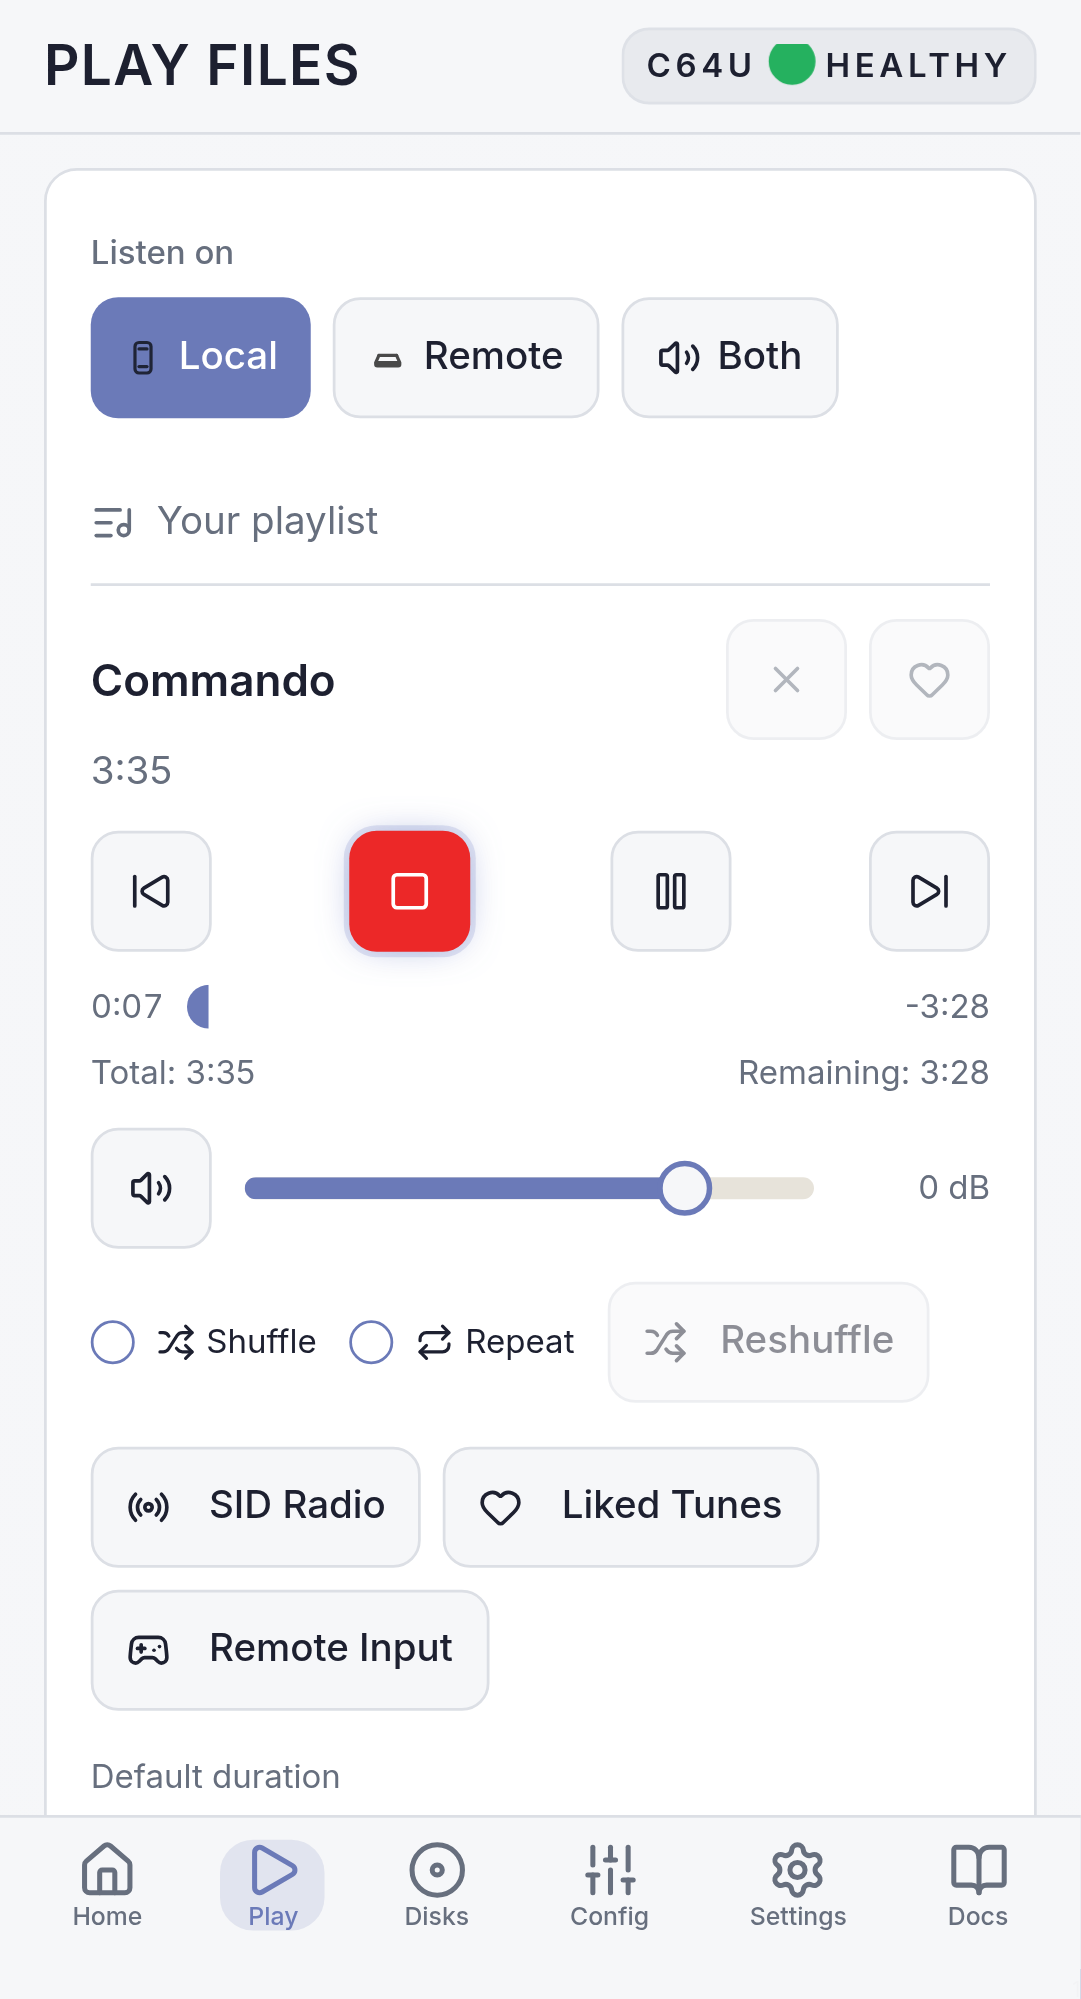
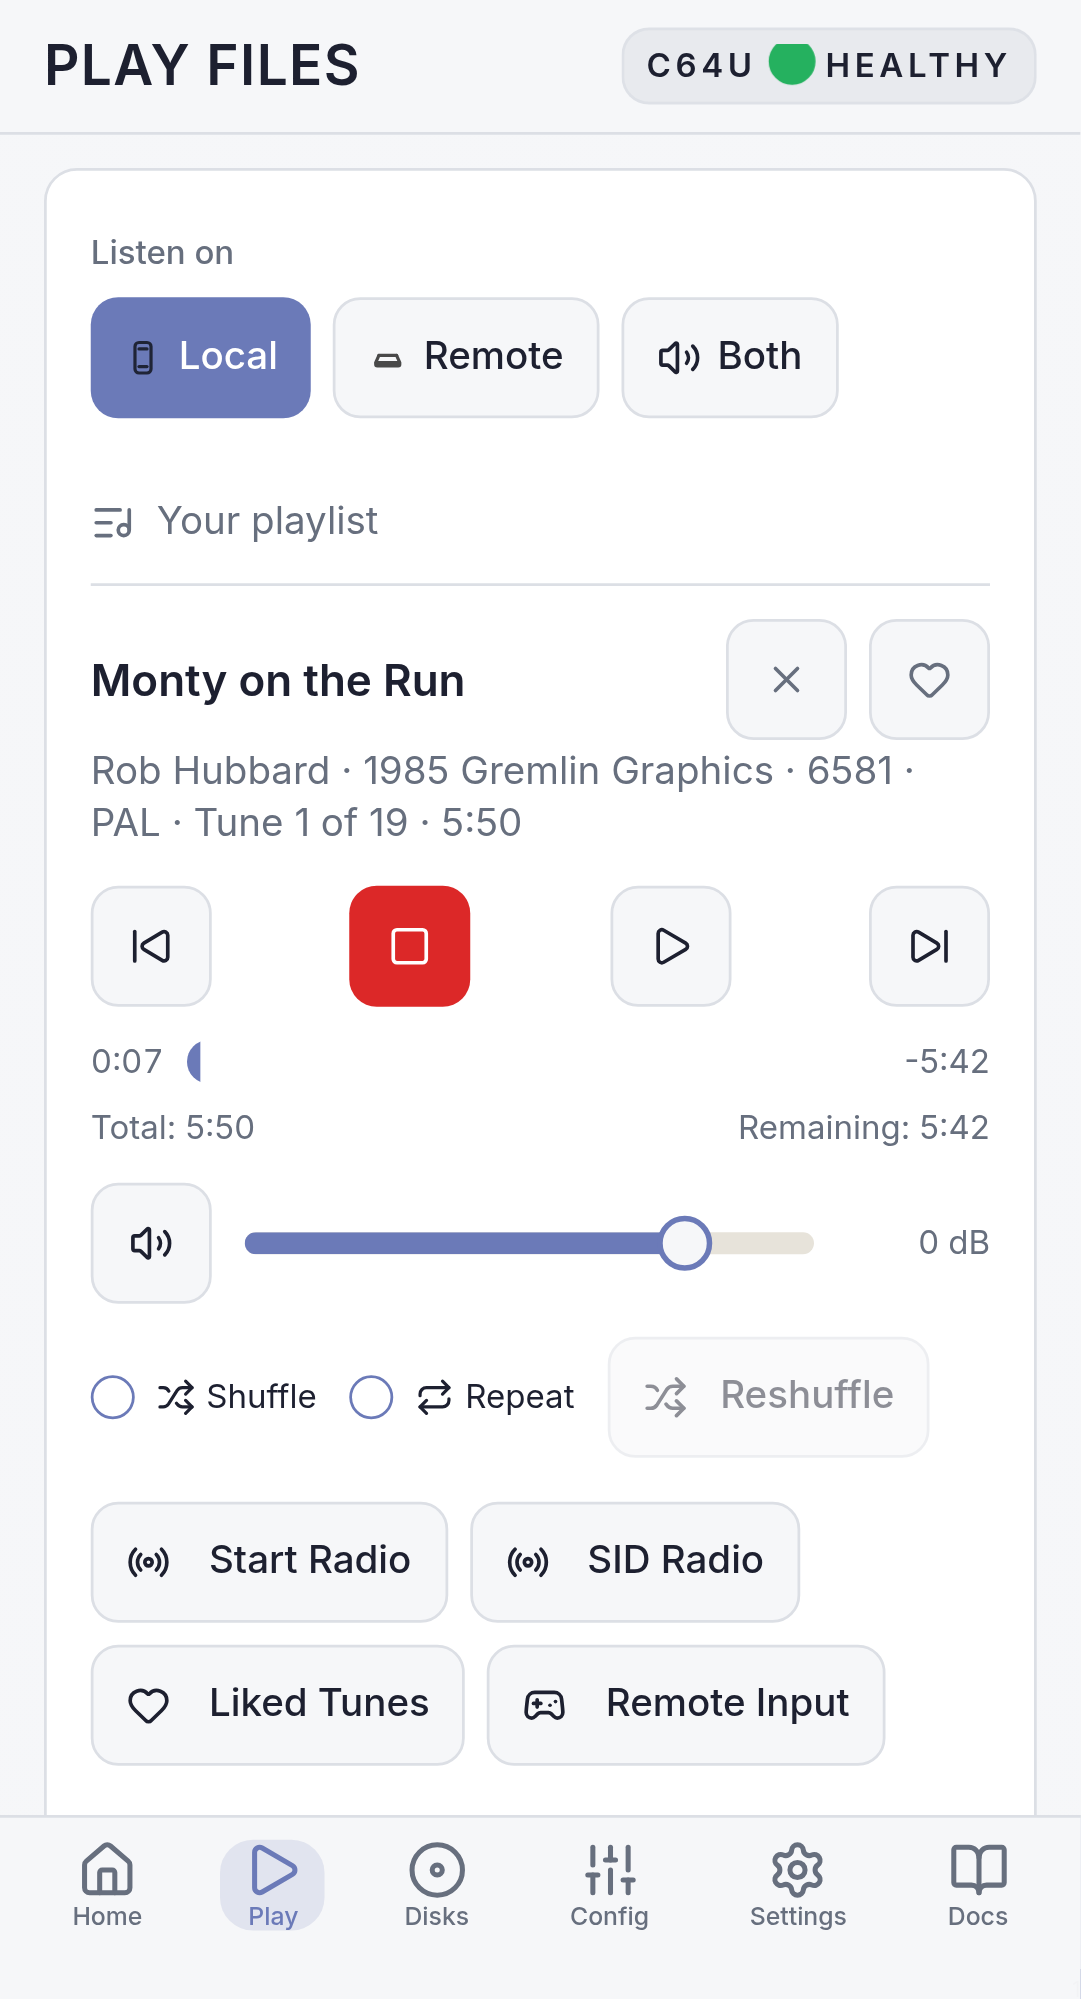
docs(sid-radio): show a real tune, with its composer, on the Now Playing card
The card showed a nameless tune: no composer, no year, no publisher, no chip,
no television standard. Those all come from the SID file's own header, and the
screenshot had no header worth reading.

Two things were wrong. The fixture builder declared a version 2 header but wrote
the version 1 data offset, producing a 119-byte file;
`parseSidHeaderMetadata` rejects anything under 124 bytes, so the credits stayed
empty. This was easy to miss because `computeSidMd5` is happy with any bytes, so
the ranking controls appeared while the composer never did. The metadata fixture
now emits a complete 124-byte version 2 header; the cut-down one is untouched for
the tests that only need *a* SID.

Second, `getHvscSong` in the UI mock matched a single hardcoded entry, so no test
could ask for a tune with real credits. It now searches the whole fixture list.
The primary song is unchanged, so existing tests see what they saw before.

The tune is Rob Hubbard's "Monty on the Run" — he started all this, and it is one
of his cheerful ones. Every value is taken from the real HVSC entry: 19 tunes,
PAL, a 6581 chip, and 5:50 for the first tune from `Songlengths.md5`. The flags
word the fixture carries is 0x14, byte for byte what the real file carries. The
bytes themselves are synthetic — no music is copied, only the facts a tune states
about itself. The card now reads:

  Monty on the Run
  Rob Hubbard · 1985 Gremlin Graphics · 6581 · PAL · Tune 1 of 19 · 5:50
[…]

diff --git a/playwright/screenshots.spec.ts b/playwright/screenshots.spec.ts
@@ -973,24 +973,28 @@ const FEATURED_SID = {
   playlistKey: SHARED_PLAYLIST_STORAGE_KEY,
   sessionKey: PLAYBACK_SESSION_KEY,
   deviceId: "TEST-123",
-  path: "/MUSICIANS/H/Hubbard_Rob/Commando.sid",
-  name: "Commando.sid",
-  title: "Commando",
-  durationMs: 215000,
-  elapsedMs: 7000,
+  // Rob Hubbard's "Monty on the Run", 1985 — one of the tunes that made the SID
+  // famous, and a cheerful one. Every value here is taken from the real HVSC
+  // entry: 19 tunes, PAL, a 6581 chip, and 5:50 for the first tune. The bytes the
+  // mock serves are synthetic, but the header they carry states exactly what the
+  // real file states, so the credits under the title are genuine rather than
+  // invented. Without a header to read, the card showed a nameless tune.
+  path: "/MUSICIANS/H/Hubbard_Rob/Monty_on_the_Run.sid",
+  name: "Monty_on_the_Run.sid",
+  title: "Monty on the Run",
+  durationMs: 350000,
+  songCount: 19,
   /**
-   * The wall-clock instant the capture runs at.
+   * Seven seconds in, just past a whole second.
    *
-   * The transport's elapsed time is derived from `Date.now()`, so with a live
-   * clock this screenshot read 0:07 on one run and 0:08 on the next. The noise
-   * budget that suppresses re-writes is 8 pixels, and a changed digit plus the
-   * moved progress bar is far more than that, so the file churned on every
-   * regeneration. Pinning `Date.now()` for the page makes the elapsed exactly
-   * `elapsedMs` and keeps it there. The same instant is used for the session's
-   * `updatedAt`, so the restore sees an age of zero and is not downgraded to
-   * paused as a stale session would be.
+   * The elapsed time, the remaining time and the progress bar are all derived
+   * from `Date.now()`, so with a live clock this file was rewritten on every
+   * regeneration — well past the 8-pixel noise budget that suppresses re-writes.
+   * The page clock is pinned for the capture, and that happens after the app has
+   * connected because the connection and health logic compares timestamps and
+   * never settles against a frozen clock.
    */
-  nowIso: "2026-01-01T12:00:00.000Z",
+  elapsedMs: 7050,
 } as const;
 
 const captureScreenshot = async (
@@ -2476,7 +2480,18 @@ test.describe("App screenshots", () => {
         // prose describes — no title, no elapsed time, no progress.
         const playlistKey = seed.playlistKey;
         const payload = {
-          items: [{ source: "hvsc", path: seed.path, name: seed.name, durationMs: seed.durationMs }],
+          items: [
+            {
+              source: "hvsc",
+              path: seed.path,
+              name: seed.name,
+              durationMs: seed.durationMs,
+              // The header declares 19 tunes; carrying the count here is what makes
+              // the card say "Tune 1 of 19" rather than leaving that field out.
+              subsongCount: seed.songCount,
+              songNr: 1,
+            },
+          ],
           currentIndex: 0,
         };
         localStorage.setItem(playlistKey, JSON.stringify(payload));
@@ -2565,6 +2580,15 @@ test.describe("App screenshots", () => {
       // Wait for the seeded tune to be the current track, so the shutter cannot
       // catch the transport before the session restore has landed.
       await expect(getActiveMain(page).getByTestId("playback-current-title")).toContainText(FEATURED_SID.title);
+
+      // The credits under the title — composer, year, publisher, chip, television
+      // standard — are parsed from the tune's own header, so wait for them rather
+      // than photographing a card that is still only showing a length.
+      await expect(getActiveMain(page).getByTestId("playback-current-credits")).toContainText("Rob Hubbard");
+
+      // Stop the clock now that the tune is up, so the elapsed time, the remaining
+      // time and the progress bar cannot move between here and the shutter. See
+      // FEATURED_SID for why this happens after connecting rather than before.
       await page.clock.setFixedTime(Date.now());
       await page.evaluate(() => window.scrollTo(0, 0));
       await captureScreenshot(page, testInfo, "play/sid-radio/01-controls.png");

diff --git a/playwright/sidFixture.ts b/playwright/sidFixture.ts
@@ -1,5 +1,35 @@
 const MINIMAL_SID_BYTE_LENGTH = 0x77;
 
+/** Where each text field sits in a PSID header, and how long it may be. */
+const NAME_OFFSET = 0x16;
+const AUTHOR_OFFSET = 0x36;
+const RELEASED_OFFSET = 0x56;
+const TEXT_FIELD_LENGTH = 0x20;
+const FLAGS_OFFSET = 0x76;
+
+/** What a tune says about itself, as the app reads it back out of the header. */
+export type SidFixtureMetadata = {
+  /** Title, composer and "year publisher", exactly as the header carries them. */
+  name: string;
+  author: string;
+  released: string;
+  songCount: number;
+  startSong: number;
+  /** `pal` and `ntsc` are the two television standards the C64 was sold for. */
+  clock: "pal" | "ntsc";
+  /** The two revisions of the SID chip. */
+  sidModel: "6581" | "8580";
+};
+
+const writeLatin1 = (bytes: Uint8Array, offset: number, value: string) => {
+  // PSID text fields are fixed-width and NUL-padded, so anything longer is cut
+  // rather than allowed to run into the next field.
+  const truncated = value.slice(0, TEXT_FIELD_LENGTH - 1);
+  for (let i = 0; i < truncated.length; i += 1) {
+    bytes[offset + i] = truncated.charCodeAt(i) & 0xff;
+  }
+};
+
 const createMinimalSidBytes = (songCount = 1) => {
   const bytes = new Uint8Array(MINIMAL_SID_BYTE_LENGTH);
   bytes.set([0x50, 0x53, 0x49, 0x44], 0);
@@ -13,6 +43,46 @@ const createMinimalSidBytes = (songCount = 1) => {
   bytes[16] = 0x00;
   bytes[17] = 0x01;
   bytes[0x76] = 0x60;
+  return bytes;
+};
+
+/**
+ * A complete version 2 header, which is what the app's parser insists on.
+ *
+ * `parseSidHeaderMetadata` rejects anything under 124 bytes and reads the flags
+ * word at offset 118, so the cut-down 119-byte fixture above — fine for tests
+ * that only need *a* SID — yields no credits at all. A version 2 header is 124
+ * bytes and the music starts at 0x7C.
+ */
+const V2_HEADER_LENGTH = 0x7c;
+
+const createSidBytesWithMetadata = (metadata: SidFixtureMetadata) => {
+  const bytes = new Uint8Array(V2_HEADER_LENGTH + 4);
+  bytes.set([0x50, 0x53, 0x49, 0x44], 0);
+  bytes[4] = 0x00;
+  bytes[5] = 0x02; // version 2
+  bytes[6] = (V2_HEADER_LENGTH >> 8) & 0xff;
+  bytes[7] = V2_HEADER_LENGTH & 0xff;
+
+  const songCount = Math.max(1, Math.min(0xffff, Math.floor(metadata.songCount || 1)));
+  bytes[14] = (songCount >> 8) & 0xff;
+  bytes[15] = songCount & 0xff;
+  const startSong = Math.max(1, Math.min(songCount, Math.floor(metadata.startSong || 1)));
+  bytes[16] = (startSong >> 8) & 0xff;
+  bytes[17] = startSong & 0xff;
+
+  writeLatin1(bytes, NAME_OFFSET, metadata.name);
+  writeLatin1(bytes, AUTHOR_OFFSET, metadata.author);
+  writeLatin1(bytes, RELEASED_OFFSET, metadata.released);
+
+  // Bits 2-3 carry the television standard and bits 4-5 the first chip's model,
+  // which is what the app reads to show "PAL" and "6581" under the title.
+  const clockBits = metadata.clock === "ntsc" ? 0b10 : 0b01;
+  const modelBits = metadata.sidModel === "8580" ? 0b10 : 0b01;
+  const flags = (clockBits << 2) | (modelBits << 4);
+  bytes[FLAGS_OFFSET] = (flags >> 8) & 0xff;
+  bytes[FLAGS_OFFSET + 1] = flags & 0xff;
+
   return bytes;
 };
 
@@ -37,3 +107,15 @@ export const ensureValidSidBase64 = (value: string, songCount = 1) => {
   }
   return Buffer.from(createMinimalSidBytes(songCount)).toString("base64");
 };
+
+/**
+ * A playable stand-in that describes itself exactly as a real tune does.
+ *
+ * The app reads the composer, the year, the publisher, the chip, the television
+ * standard and the tune count straight out of the PSID header, so a fixture with
+ * an empty header produces a screenshot of a nameless tune. This writes real
+ * values into a synthetic file: no music is copied, only the facts a tune states
+ * about itself.
+ */
+export const createSidBase64WithMetadata = (metadata: SidFixtureMetadata) =>
+  Buffer.from(createSidBytesWithMetadata(metadata)).toString("base64");

diff --git a/playwright/uiMocks.ts b/playwright/uiMocks.ts
@@ -91,6 +91,22 @@ const fixtureBase64 = primarySong
   ? ensureValidSidBase64(primarySong.dataBase64, primarySong.durations?.length ?? 1)
   : "";
 
+/**
+ * The rest of the fixture, served alongside the primary song.
+ *
+ * `getHvscSong` used to know about one song only, so a test that wanted a tune
+ * with real credits — a composer, a year, a publisher — had no way to ask for
+ * one. These are additional; the primary song is untouched, so every existing
+ * test sees exactly what it saw before.
+ */
+const additionalSongs = baselineFixture.songs.slice(1).map((entry, index) => ({
+  id: index + 2,
+  virtualPath: entry.virtualPath,
+  fileName: entry.fileName,
+  durationSeconds: entry.durationSeconds ?? 0,
+  dataBase64: ensureValidSidBase64(entry.dataBase64, entry.durations?.length ?? 1),
+}));
+
 const buildSnapshotData = () => {
   const data: Record<string, any> = {};
   Object.entries(configState).forEach(([category, items]) => {
@@ -193,6 +209,7 @@ export async function seedUiMocks(page: Page, baseUrl: string, options: UiMockSe
     ({
       baseUrl: baseUrlArg,
       songData,
+      extraSongs,
       snapshot,
       seedFeatureFlagsByDefault: seedFeatureFlags,
       clearStorageBeforeSeeding: clearStorage,
@@ -200,6 +217,13 @@ export async function seedUiMocks(page: Page, baseUrl: string, options: UiMockSe
     }: {
       baseUrl: string;
       songData: string;
+      extraSongs: Array<{
+        id: number;
+        virtualPath: string;
+        fileName: string;
+        durationSeconds: number;
+        dataBase64: string;
+      }>;
       snapshot: unknown;
       seedFeatureFlagsByDefault: boolean;
       clearStorageBeforeSeeding: boolean;
@@ -512,13 +536,16 @@ export async function seedUiMocks(page: Page, baseUrl: string, options: UiMockSe
           return { path: normalized, folders: [], songs: [] };
         },
         getHvscSong: async ({ id, virtualPath }: { id?: number; virtualPath?: string }) => {
-          if (id !== song.id && virtualPath !== song.virtualPath) throw new Error("Song not found");
+          const match = [song, ...extraSongs].find(
+            (candidate) => candidate.id === id || candidate.virtualPath === virtualPath,
+          );
+          if (!match) throw new Error("Song not found");
           return {
-            id: song.id,
-            virtualPath: song.virtualPath,
-            fileName: song.fileName,
-            durationSeconds: song.durationSeconds,
-            dataBase64: song.dataBase64,
+            id: match.id,
+            virtualPath: match.virtualPath,
+            fileName: match.fileName,
+            durationSeconds: match.durationSeconds,
+            dataBase64: match.dataBase64,
           };
         },
         getHvscDurationByMd5: async () => ({
@@ -532,6 +559,7 @@ export async function seedUiMocks(page: Page, baseUrl: string, options: UiMockSe
     {
       baseUrl: baseUrl,
       songData: fixtureBase64,
+      extraSongs: additionalSongs,
       snapshot: initialSnapshot,
       seedFeatureFlagsByDefault,
       clearStorageBeforeSeeding,

diff --git a/docs/manual/c64commander/c64commander-manual.md b/docs/manual/c64commander/c64commander-manual.md
@@ -379,7 +379,7 @@ SID Radio plays that archive like a radio station. You choose a mood, or a tune 
 
 It needs no internet connection. The app already knows which tunes resemble one another, so once the music is on your phone or tablet there is nothing further to download.
 
-![The Now Playing card during a station, with the heart and cross beside the title](../../img/app/play/sid-radio/01-controls.png)
+![The Now Playing card: Rob Hubbard's "Monty on the Run" playing, with the heart and cross beside the title](../../img/app/play/sid-radio/01-controls.png)
 
 #### Starting a station
 

diff --git a/docs/manual/c64u-remote/c64u-remote-manual.md b/docs/manual/c64u-remote/c64u-remote-manual.md
@@ -377,7 +377,7 @@ SID Radio plays that archive like a radio station. You choose a mood, or a tune 
 
 It needs no internet connection. The app already knows which tunes resemble one another, so once the music is on your phone there is nothing further to download.
 
-![The Now Playing card during a station, with the heart and cross beside the title](../../img/app/play/sid-radio/01-controls.png)
+![The Now Playing card: Rob Hubbard's "Monty on the Run" playing, with the heart and cross beside the title](../../img/app/play/sid-radio/01-controls.png)
 
 #### Starting a station
 
